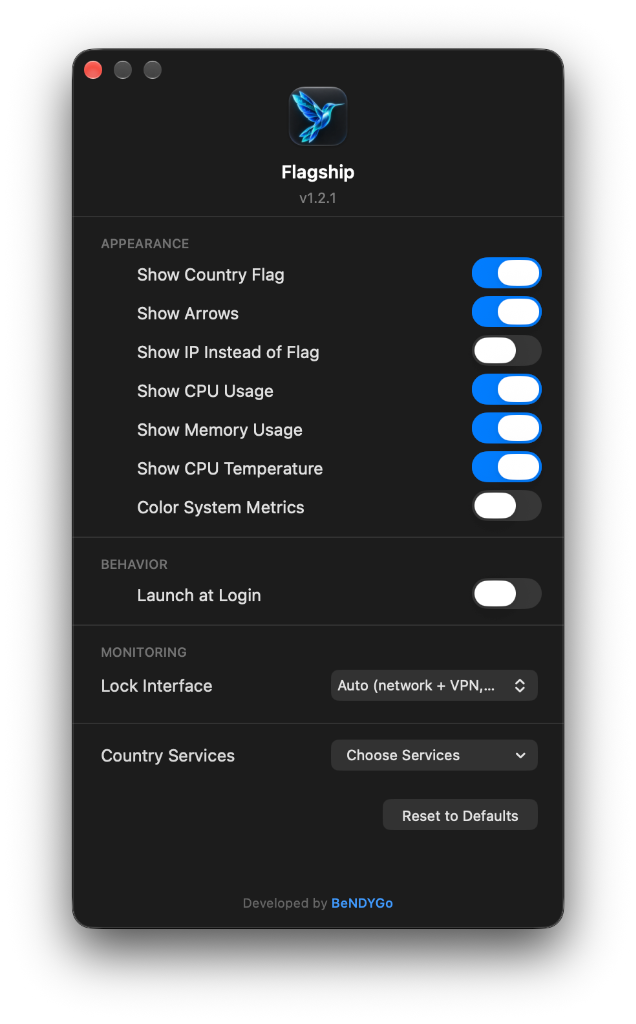
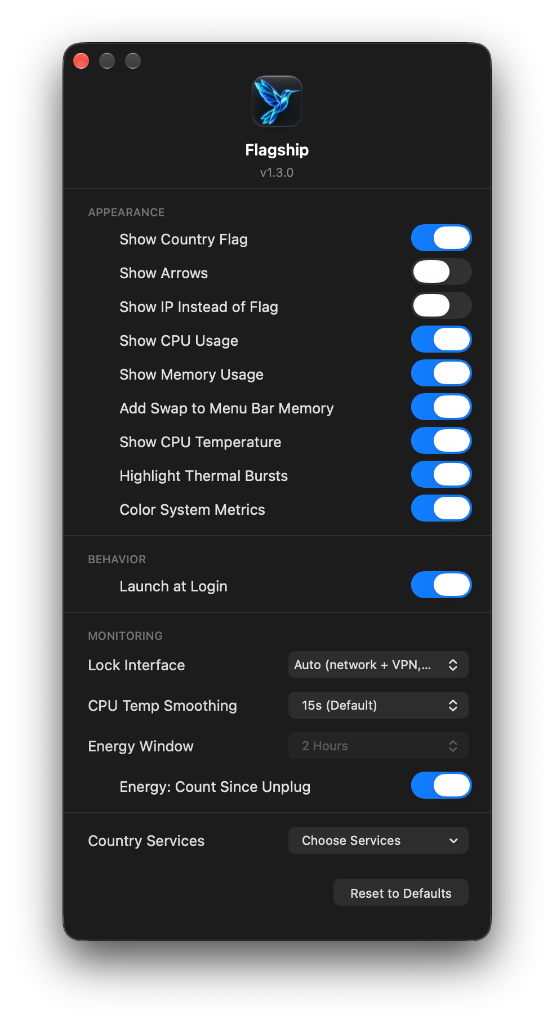
Add DMG packaging script and update README screenshots for v1.3.0

diff --git a/README-RU.md b/README-RU.md
@@ -16,7 +16,7 @@
   </p>
 
   <p>
-    <b>Flagship</b> — системный монитор для строки меню macOS. Приложение объединяет отображение сетевой активности в реальном времени с ключевыми показателями состояния системы: загрузкой процессора, оперативной памятью и температурой CPU.
+    <b>Flagship</b> — системный монитор для строки меню macOS. Приложение объединяет сетевой монитор в реальном времени, системные метрики (загрузка процессора, оперативная память со Swap, температура CPU) и детальный трекер активности и энергопотребления процессов.
   </p>
 
   <p>
@@ -24,18 +24,20 @@
   </p>
 </div>
 
-|  |  |
-| --- | --- |
-| ![Дашборд с графиками](Screenshot2.png) | ![Настройки Flagship](Screenshot3.png) |
+| Полный дашборд | Компактный режим (Live Activity свернут) | Настройки Flagship |
+| :---: | :---: | :---: |
+| ![Дашборд с графиками](Screenshot2.png) | ![Компактный режим](Screenshot4.png) | ![Настройки Flagship](Screenshot3.png) |
 
 
 ## Основные возможности
 
-- **Компактный индикатор в строке меню**: двухстрочное отображение текущей скорости отдачи и загрузки, флага страны / внешнего IP, загрузки CPU, объема занятой памяти и температуры.
+- **Компактный индикатор в строке меню**: двухстрочное отображение текущей скорости отдачи и загрузки, флага страны / внешнего IP, загрузки CPU, объема занятой памяти (с опциональным учетом Swap) и температуры.
 - **Всплывающий дашборд с графиками**: история за последние 5 минут для каждого показателя (CPU, RAM, температура и объединенный график сети).
+- **Сворачиваемый блок Live Activity**: возможность одним кликом свернуть сетку графиков, переключив дашборд в компактный режим со списком активных процессов.
+- **Мониторинг процессов и расхода батареи**: отслеживание самых ресурсоемких приложений по CPU, RAM и энергии. Вкладка **Energy** и режим **Since Unplug** отображают процент разряда батареи каждым приложением с момента отключения от питания с автоматической группировкой системных демонов macOS.
 - **Определение страны и внешнего IP**: автоматическое определение геолокации внешнего адреса с отображением флага, мгновенная реакция на переключение сети и VPN.
 - **Цветовая индикация нагрузки**: настраиваемая подсветка системных метрик в зависимости от уровня нагрузки (зелёный, жёлтый, красный) с поддержкой светлой и тёмной тем macOS.
-- **Гибкая кастомизация**: возможность скрывать любые индикаторы (оставлять только сеть или только системные ресурсы), фиксировать мониторинг на конкретном интерфейсе, выбирать провайдеров гео-IP.
+- **Гибкая кастомизация**: возможность скрывать любые индикаторы, закреплять мониторинг на конкретном интерфейсе, включать сглаживание температурных скачков (CPU Temp Smoothing), подсвечивать тепловые всплески и выбирать провайдеров гео-IP.
 - **Минимальное потребление ресурсов**: нативное приложение на Swift/AppKit, прямое чтение сенсоров SMC и статистики ядра Mach без сторонних зависимостей.
 
 ---
@@ -47,41 +49,44 @@
 - Поддерживаются Apple Silicon (M1/M2/M3/M4) и Intel (x86_64).
 
 ### Загрузка готовой версии
-1. Скачайте архив `Flagship.zip` со страницы [Releases](https://github.com/BeNDYGo/Flagship/releases).
-2. Распакуйте архив и переместите `Flagship.app` в папку `/Applications`.
+1. Скачайте образ `Flagship.dmg` (или архив `Flagship.zip`) со страницы [Releases](https://github.com/BeNDYGo/Flagship/releases).
+2. Откройте `Flagship.dmg` и перетащите `Flagship.app` в папку `/Applications`.
 3. Запустите приложение. В строке меню появится индикатор.
 4. По клику на индикатор открывается дашборд. В меню доступен пункт **Settings...**, где можно настроить внешний вид и включить **Launch at Login** (автозапуск при входе).
 
 > **Примечание при первом запуске (Gatekeeper):**  
 > Поскольку сборка подписана локальной ad-hoc подписью без платного сертификата Apple Developer, при первом открытии macOS может предупредить о неизвестном разработчике.
 >
-> Есть 3 способа открыть приложение: 
-> 1) Нажмите на `Flagship.app` правой кнопкой мыши (или зажмите Control при клике) и выберите **Открыть**.
->
-> 2) Если это не помогло: откройте **Системные настройки** → **Конфиденциальность и безопасность** (Privacy & Security) → пролистайте вниз до раздела **Безопасность** (Security) и разрешите открытие («Подтвердить вход» / «Открыть в любом случае»).
->
-> 3) Либо выполните в Терминале:  
+> **Способы открыть приложение:**
+> 1) Выполните в Терминале (быстрый и надежный способ для всех версий, включая macOS 15 Sequoia):  
 > ```sh
 > xattr -cr /Applications/Flagship.app
 > ```
+> 2) Либо откройте **Системные настройки** → **Конфиденциальность и безопасность** (Privacy & Security) → пролистайте вниз до раздела **Безопасность** (Security) и нажмите **Открыть в любом случае** (Open Anyway).
+> 3) В старых версиях macOS: нажмите на `Flagship.app` правой кнопкой мыши (или Control + клик) и выберите **Открыть**.
 
 ---
 
 ## Сборка из исходников
 
-Если вы хотите собрать приложение самостоятельно, понадобятся Xcode Command Line Tools.
+Для самостоятельной сборки понадобятся Xcode Command Line Tools.
 
 1. Клонируйте репозиторий:
    ```sh
    git clone https://github.com/BeNDYGo/Flagship.git
    cd Flagship
    ```
-2. Запустите скрипт сборки:
+2. Соберите приложение (`.app`):
    ```sh
    ./build.sh
    ```
+   Скрипт компилирует universal binary под архитектуры `arm64` и `x86_64`, собирает бандл и подписывает его локальной ad-hoc подписью. Готовое приложение будет расположено в `build/Flagship.app`.
 
-Скрипт компилирует universal binary под архитектуры `arm64` и `x86_64`, упаковывает бандл и подписывает его локальной ad-hoc подписью. Готовое приложение будет расположено в `build/Flagship.app`.
+3. *(Опционально)* Соберите готовый образ диска (`.dmg`):
+   ```sh
+   ./create-dmg.sh
+   ```
+   Скрипт проверяет наличие `build/Flagship.app` (при необходимости вызывает `build.sh`), создает ярлык на `/Applications` и генерирует сжатый образ `build/Flagship.dmg` для удобной установки.
 
 ---
 
@@ -90,13 +95,14 @@
 1. **Шрифт и верстка строки меню**: используется моноширинный шрифт 9.5 pt regular (`monospacedDigitSystemFont`), чтобы ширина не менялась при смене цифр. Автоматическое сжатие индикатора отключено — зарезервированная ширина не сужается при падении значений до единиц или нулей. При отключении отдельных метрик оставшиеся аккуратно центрируются.
 2. **Цветовая индикация метрик**: при включении опции Color System Metrics цвета распределяются по порогам: CPU — обычный до 50%, оранжевый от 50%, красный от 80%; RAM — обычный до 70%, предупреждение от 70%, критический от 90%; температура CPU — обычный до 70°C, предупреждение от 70°C, критический от 90°C. Палитра адаптирована под светлую и тёмную темы macOS. Сеть всегда остаётся системного монохромного цвета.
 3. **Фоновый опрос ресурсов**: все измерения выполняются раз в секунду в отдельной фоновой очереди `flagship.system` (`qos: .utility`), не блокируя главный поток интерфейса.
-4. **Формула оперативной памяти**: объём занятой RAM считается как `active + wired + compressed` через `host_statistics64` (1 GB = 1024³ байт). Это отражает физически занятую память, а не синтетический процент memory pressure.
-5. **Температура процессора**: считывается напрямую через интерфейс IOKit драйвера `AppleSMC`. Отображается среднее арифметическое показаний термодатчиков ядер CPU в текущем замере (для Apple Silicon и Intel). Если сенсоры недоступны, выводится прочерк.
-6. **Учёт сетевого трафика и VPN**: в режиме Auto монитор опрашивает только физические интерфейсы (`en*`, `pdp_ip*`). Трафик туннелей `utun*` исключён из общей суммы, так как пакеты VPN уже физически проходят через основной сетевой адаптер (это предотвращает удвоение скорости). При ручном выборе конкретного `utun*` считается трафик только этого туннеля.
-7. **Точность скорости сети**: скорость вычисляется по дельте байт между вызовами, делённой на фактически прошедшее время (`uptimeNanoseconds`), а не по расчётному интервалу таймера. При подключении нового интерфейса сначала снимается нулевая точка отсчёта, исключая скачки скорости. При исчезновении закрепленного интерфейса скорость равна нулю.
-8. **Детекция смены сети**: приложение комбинирует `SCDynamicStore` (изменение глобального маршрута IPv4/IPv6, статуса сервисов и линков), `NWPathMonitor`, посекундную проверку адресов и события пробуждения macOS (`didWakeNotification`).
-9. **Запросы гео-IP и отказоустойчивость**: при смене сети запускаются немедленный запрос и контрольные повторы через 1 и 3 секунды (для перехвата запоздалой маршрутизации VPN). Поддерживаются пять провайдеров (`ip-api.com`, `ipapi.co`, `api.country.is`, `ipinfo.io`, `ipwho.is`), а также корректная обработка лимитов HTTP 429 и заголовка `Retry-After`. При ошибке или в процессе проверки отображается белый флаг 🏳.
-10. **Хранение данных и история**: история графиков за 5 минут хранится исключительно в оперативной памяти и обнуляется при перезапуске приложения. Настройки приложения сохраняются в изолированном домене `local.flagship.app` и не конфликтуют с другими утилитами.
+4. **Формула оперативной памяти и Swap**: объём занятой RAM считается как `active + wired + compressed` через `host_statistics64` (1 GB = 1024³ байт). Опция *Add Swap to Menu Bar Memory* учитывает фактически выделенный объем файлов подкачки через `sysctl` (`vm.swapusage`).
+5. **Температура процессора и сглаживание**: считывается напрямую через интерфейс IOKit драйвера `AppleSMC`. Доступно скользящее сглаживание показаний (CPU Temp Smoothing с окном до 60 секунд) для фильтрации кратковременных пиков, а также индикация тепловых всплесков (Highlight Thermal Bursts).
+6. **Мониторинг процессов и батареи**: модуль отслеживания процессов агрегирует нагрузку на CPU, выделение оперативной памяти и историю энергопотребления. В режиме *Since Unplug* процент разряда батареи сопоставляется с активностью приложений через `IOPMPowerSource`. Фоновые демоны операционной системы автоматически группируются в сводный элемент `macOS System`.
+7. **Учёт сетевого трафика и VPN**: в режиме Auto монитор опрашивает только физические интерфейсы (`en*`, `pdp_ip*`). Трафик туннелей `utun*` исключён из общей суммы, так как пакеты VPN уже физически проходят через основной сетевой адаптер (это предотвращает удвоение скорости). При ручном выборе конкретного `utun*` считается трафик только этого туннеля.
+8. **Точность скорости сети**: скорость вычисляется по дельте байт между вызовами, делённой на фактически прошедшее время (`uptimeNanoseconds`), а не по расчётному интервалу таймера. При подключении нового интерфейса сначала снимается нулевая точка отсчёта, исключая скачки скорости.
+9. **Детекция смены сети**: приложение комбинирует `SCDynamicStore` (изменение глобального маршрута IPv4/IPv6, статуса сервисов и линков), `NWPathMonitor`, посекундную проверку адресов и события пробуждения macOS (`didWakeNotification`).
+10. **Запросы гео-IP и отказоустойчивость**: при смене сети запускаются немедленный запрос и контрольные повторы через 1 и 3 секунды (для перехвата запоздалой маршрутизации VPN). Поддерживаются пять провайдеров (`ip-api.com`, `ipapi.co`, `api.country.is`, `ipinfo.io`, `ipwho.is`), а также корректная обработка лимитов HTTP 429 и заголовка `Retry-After`. При ошибке или в процессе проверки отображается белый флаг 🏳.
+11. **Хранение данных и история**: история графиков за 5 минут хранится исключительно в оперативной памяти и обнуляется при перезапуске приложения. Настройки сохраняются в изолированном домене `local.flagship.app` и не конфликтуют с другими утилитами.
 
 ---
 

diff --git a/README.md b/README.md
@@ -16,7 +16,7 @@
   </p>
 
   <p>
-    <b>Flagship</b> is a lightweight, informative system monitor for the macOS menu bar. The application combines real-time network activity monitoring with vital system metrics: CPU load, RAM usage, and CPU temperature.
+    <b>Flagship</b> is a lightweight, informative system monitor for the macOS menu bar. The application combines real-time network activity monitoring, core system metrics (CPU load, RAM with Swap, CPU temperature), and a detailed process activity and battery drain tracker.
   </p>
 
   <p>
@@ -24,19 +24,21 @@
   </p>
 </div>
 
-|  |  |
-| --- | --- |
-| ![Metrics Dashboard](Screenshot2.png) | ![Flagship Settings](Screenshot3.png) |
+| Full Dashboard | Compact Mode (Live Activity Collapsed) | Flagship Settings |
+| :---: | :---: | :---: |
+| ![Metrics Dashboard](Screenshot2.png) | ![Compact Mode](Screenshot4.png) | ![Flagship Settings](Screenshot3.png) |
 
 
 ## Key Features
 
-- **Compact menu bar indicator**: Two-line display showing current upload and download speeds, country flag / external IP, CPU load, used RAM, and temperature.
+- **Compact menu bar indicator**: Two-line display showing current upload and download speeds, country flag / external IP, CPU load, used RAM (with optional Swap inclusion), and temperature.
 - **Pop-up metrics dashboard**: 5-minute historical sparkline graphs for each metric (CPU, RAM, temperature, and combined network graph).
+- **Collapsible Live Activity tiles**: One-click collapsible graph section to instantly switch into a compact process monitor view.
+- **Top processes and battery drain tracking**: Monitor resource-intensive applications by CPU, RAM, and Energy. The **Energy** tab with **Since Unplug** mode calculates battery discharge percentage per app since disconnection from power, grouping background macOS system daemons.
 - **Country flag and external IP lookup**: Automatic geolocation detection with country flag display, reacting instantly to network and VPN changes.
 - **Dynamic load coloring**: Configurable color-coded metrics based on load level (green, yellow, red) supporting both light and dark macOS appearance modes.
-- **Flexible customization**: Hide any unwanted metrics (keep only network or only system stats), pin monitoring to a specific network interface, or configure Geo-IP lookup providers.
-- **Minimal resource footprint**: Native Swift/AppKit application directly querying SMC sensors and Mach kernel statistics without external dependencies.
+- **Flexible customization**: Hide unwanted metrics, pin monitoring to a specific network interface, configure CPU Temp Smoothing, highlight thermal bursts, and select Geo-IP providers.
+- **Minimal resource footprint**: Native Swift/AppKit application querying SMC sensors and Mach kernel statistics directly without external dependencies.
 
 ---
 
@@ -47,23 +49,21 @@
 - Universal binary for Apple Silicon (M1/M2/M3/M4) and Intel (x86_64).
 
 ### Downloading Pre-built App
-1. Download `Flagship.zip` from the [Releases](https://github.com/BeNDYGo/Flagship/releases) page.
-2. Unpack the archive and move `Flagship.app` into your `/Applications` folder.
+1. Download `Flagship.dmg` (or `Flagship.zip`) from the [Releases](https://github.com/BeNDYGo/Flagship/releases) page.
+2. Open `Flagship.dmg` and drag `Flagship.app` into your `/Applications` folder.
 3. Launch the app. The indicator will appear in your menu bar.
 4. Click the indicator to view the dashboard. Use **Settings...** in the menu to customize appearance and enable **Launch at Login**.
 
 > **Note on First Launch (macOS Gatekeeper):**  
-> Because this application uses an ad-hoc local signature without an Apple Developer certificate, macOS may warn you on first launch.
+> Because this application uses an ad-hoc local signature without a paid Apple Developer certificate, macOS may warn you on first launch.
 >
-> There are three easy ways to open it:
-> 1) Right-click (or Control-click) `Flagship.app` in Finder and select **Open**.
->
-> 2) If that does not work: open **System Settings** → **Privacy & Security** → scroll down to the **Security** section and click **Open Anyway**.
->
-> 3) Or run the following command in Terminal:  
+> **Ways to open the app:**
+> 1) Run in Terminal (fastest and most reliable method for all versions, including macOS 15 Sequoia):  
 > ```sh
 > xattr -cr /Applications/Flagship.app
 > ```
+> 2) Or go to **System Settings** → **Privacy & Security** → scroll down to the **Security** section and click **Open Anyway**.
+> 3) On older macOS versions: right-click (or Control-click) `Flagship.app` in Finder and select **Open**.
 
 ---
 
@@ -76,12 +76,17 @@ To build the application yourself, you will need Xcode Command Line Tools.
    git clone https://github.com/BeNDYGo/Flagship.git
    cd Flagship
    ```
-2. Run the build script:
+2. Build the application (`.app`):
    ```sh
    ./build.sh
    ```
+   The script compiles a universal binary for `arm64` and `x86_64`, packages the bundle, and ad-hoc signs it. The compiled application will be generated at `build/Flagship.app`.
 
-The script compiles a universal binary for `arm64` and `x86_64`, packages the bundle, and ad-hoc signs it. The compiled application will be generated at `build/Flagship.app`.
+3. *(Optional)* Build the disk image installer (`.dmg`):
+   ```sh
+   ./create-dmg.sh
+   ```
+   The script verifies `build/Flagship.app` (running `build.sh` if needed), attaches the `/Applications` shortcut, and generates a compressed `build/Flagship.dmg` disk image.
 
 ---
 
@@ -90,17 +95,18 @@ The script compiles a universal binary for `arm64` and `x86_64`, packages the bu
 1. **Menu bar typography and layout**: Uses a fixed 9.5 pt regular font (`monospacedDigitSystemFont`) to avoid indicator jitter when digits change. Automatic narrowing is disabled — reserved width remains consistent even when numbers drop to single digits or zeros. Remaining metrics are automatically centered when others are hidden.
 2. **Color thresholds (Color System Metrics)**: When enabled, colors are assigned based on thresholds: CPU is normal up to 50%, orange from 50%, red from 80%; RAM is normal up to 70%, warning from 70%, critical from 90%; CPU temperature is normal up to 70°C, warning from 70°C, critical from 90°C. Palette is dynamically adjusted for contrast across light and dark themes. Network speeds always maintain the system monochrome menu bar color.
 3. **Background resource sampling**: All polling runs once per second on a dedicated serial background queue `flagship.system` (`qos: .utility`), never blocking the main UI thread.
-4. **RAM measurement formula**: Used memory is calculated as `active + wired + compressed` from `host_statistics64` (1 GB = 1024³ bytes). This reflects actual physical memory occupied rather than a synthetic memory pressure percentage.
-5. **CPU temperature sampling**: Read directly through IOKit from the `AppleSMC` driver. The value represents the arithmetic mean of all available core temperature sensors in the current sample (for both Apple Silicon and Intel). A dash is displayed if sensors are unavailable (e.g. inside a VM).
-6. **Network accounting and VPN handling**: In Auto mode, the monitor tallies only physical adapters (`en*`, `pdp_ip*`). Virtual tunnel interfaces (`utun*`) are excluded from the total to prevent double-counting traffic already routed through the physical adapter. When an interface is locked manually to a specific `utun*`, only that tunnel's traffic is counted.
-7. **Speed measurement accuracy**: Speeds are calculated using the byte delta divided by actual elapsed astronomical time (`uptimeNanoseconds`), rather than assuming a precise 1.000-second timer interval. When a new interface appears, a baseline snapshot is taken first to prevent artificial speed spikes. If a locked interface disconnects, speed immediately drops to zero.
-8. **Network change detection**: Combines `SCDynamicStore` notifications (global IPv4/IPv6 routing shifts, service state, link changes), `NWPathMonitor`, 1-second address polling, and system wake events (`didWakeNotification`).
-9. **Geo-IP failover and rate limits**: On network change, an immediate lookup is fired, followed by verification retries after 1 and 3 seconds to catch delayed VPN routing. Five providers are supported (`ip-api.com`, `ipapi.co`, `api.country.is`, `ipinfo.io`, `ipwho.is`), handling HTTP 429 and `Retry-After` headers gracefully. A white flag 🏳 is displayed while checking or when services are unreachable.
-10. **Data persistence and history**: The 5-minute historical graph data is stored strictly in volatile RAM and is reset upon app restart. Settings are saved under the isolated bundle domain `local.flagship.app` without conflicting with other tools.
+4. **RAM and Swap measurement formula**: Used memory is calculated as `active + wired + compressed` from `host_statistics64` (1 GB = 1024³ bytes). The *Add Swap to Menu Bar Memory* setting reads active swapfile usage via `sysctl` (`vm.swapusage`).
+5. **CPU temperature sampling and smoothing**: Read directly through IOKit from the `AppleSMC` driver. Features a moving average filter (CPU Temp Smoothing up to 60 seconds) to mitigate short thermal spikes, alongside a Highlight Thermal Bursts indicator.
+6. **Process and Energy tracking**: Aggregates CPU load, physical RAM allocation, and power drain deltas using IOKit (`IOPMPowerSource`). In *Since Unplug* mode, app energy consumption is tracked against total battery drain. macOS system daemons are automatically consolidated under the unified `macOS System` item.
+7. **Network accounting and VPN handling**: In Auto mode, the monitor tallies only physical adapters (`en*`, `pdp_ip*`). Virtual tunnel interfaces (`utun*`) are excluded from the total to prevent double-counting traffic already routed through the physical adapter. When an interface is locked manually to a specific `utun*`, only that tunnel's traffic is counted.
+8. **Speed measurement accuracy**: Speeds are calculated using the byte delta divided by actual elapsed astronomical time (`uptimeNanoseconds`), rather than assuming a precise 1.000-second timer interval. When a new interface appears, a baseline snapshot is taken first to prevent artificial speed spikes. If a locked interface disconnects, speed immediately drops to zero.
+9. **Network change detection**: Combines `SCDynamicStore` notifications (global IPv4/IPv6 routing shifts, service state, link changes), `NWPathMonitor`, 1-second address polling, and system wake events (`didWakeNotification`).
+10. **Geo-IP failover and rate limits**: On network change, an immediate lookup is fired, followed by verification retries after 1 and 3 seconds to catch delayed VPN routing. Five providers are supported (`ip-api.com`, `ipapi.co`, `api.country.is`, `ipinfo.io`, `ipwho.is`), handling HTTP 429 and `Retry-After` headers gracefully. A white flag 🏳 is displayed while checking or when services are unreachable.
+11. **Data persistence and history**: The 5-minute historical graph data is stored strictly in volatile RAM and is reset upon app restart. Settings are saved under the isolated bundle domain `local.flagship.app` without conflicting with other tools.
 
 ---
 
 ## Origin and License
 
-- Based on [NetBar](https://github.com/mh-sudo) (MIT License).
+- Based on: [NetBar](https://github.com/mh-sudo) (MIT License).
 - License: MIT.
